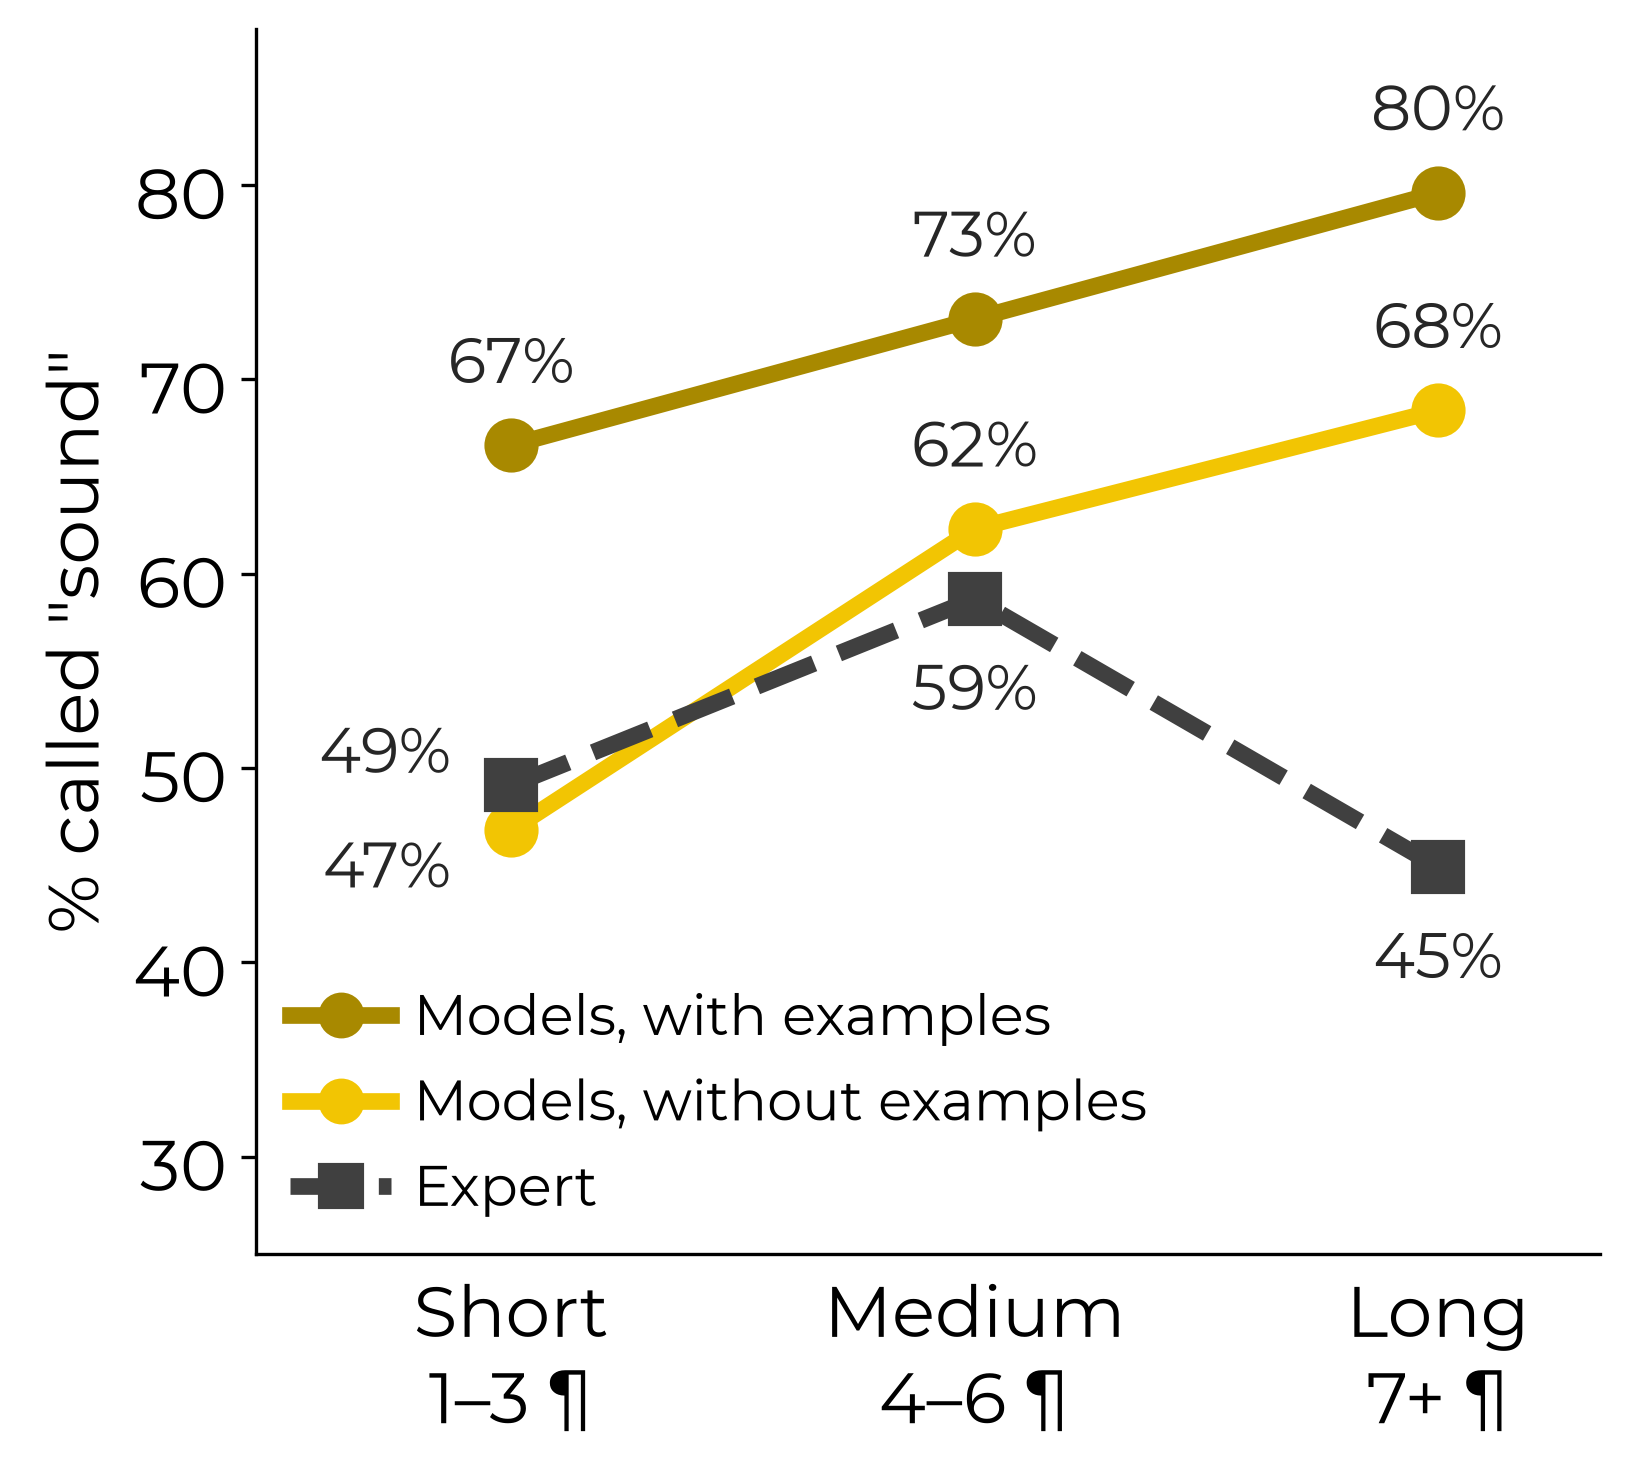
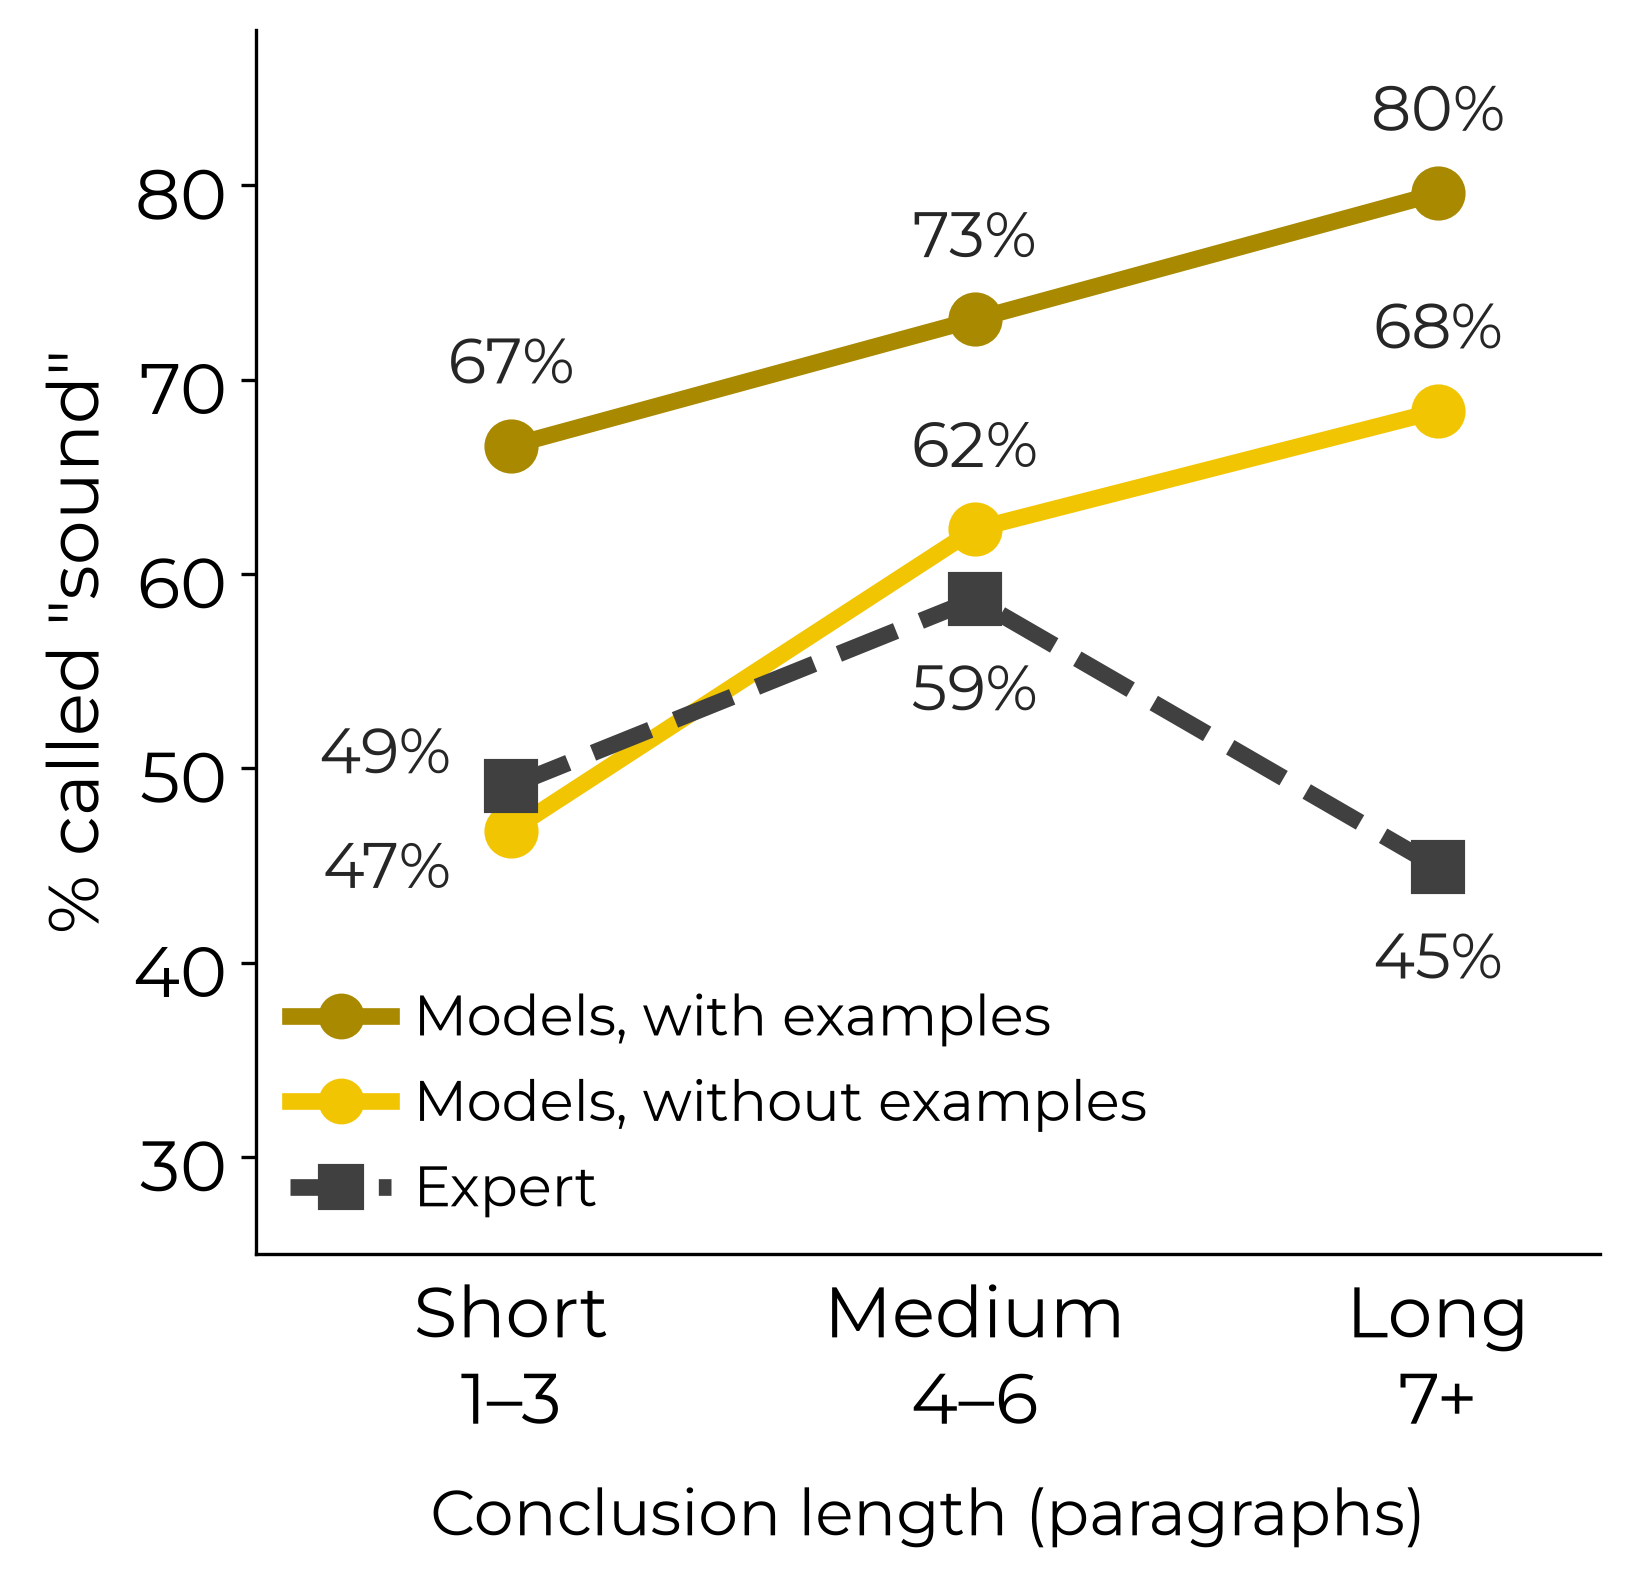
Length compact: replace paragraph mark with axis label
Claude-Session: https://claude.ai/code/session_01L4hwcV6Bm6gz8LaXaMsYPv

diff --git a/src/analysis/poster_figures.py b/src/analysis/poster_figures.py
@@ -533,7 +533,8 @@ def make_length_chart_compact(metrics_path: Path = FINDINGS_METRICS_PATH,
                 continue
             ax.text(xi, yi - 2.6 if below else yi + 2.4, f"{yi:.0f}%", ha="center",
                     va="top" if below else "bottom", fontsize=15, color=POSTER_LABEL_COLOR)
-    ax.set_xticks(x, ["Short\n1–3 ¶", "Medium\n4–6 ¶", "Long\n7+ ¶"])
+    ax.set_xticks(x, ["Short\n1–3", "Medium\n4–6", "Long\n7+"])
+    ax.set_xlabel("Conclusion length (paragraphs)", fontsize=15, labelpad=8)
     ax.tick_params(axis="x", length=0)
     ax.set_xlim(-0.55, 2.35)
     ax.set_ylim(25, 88)
